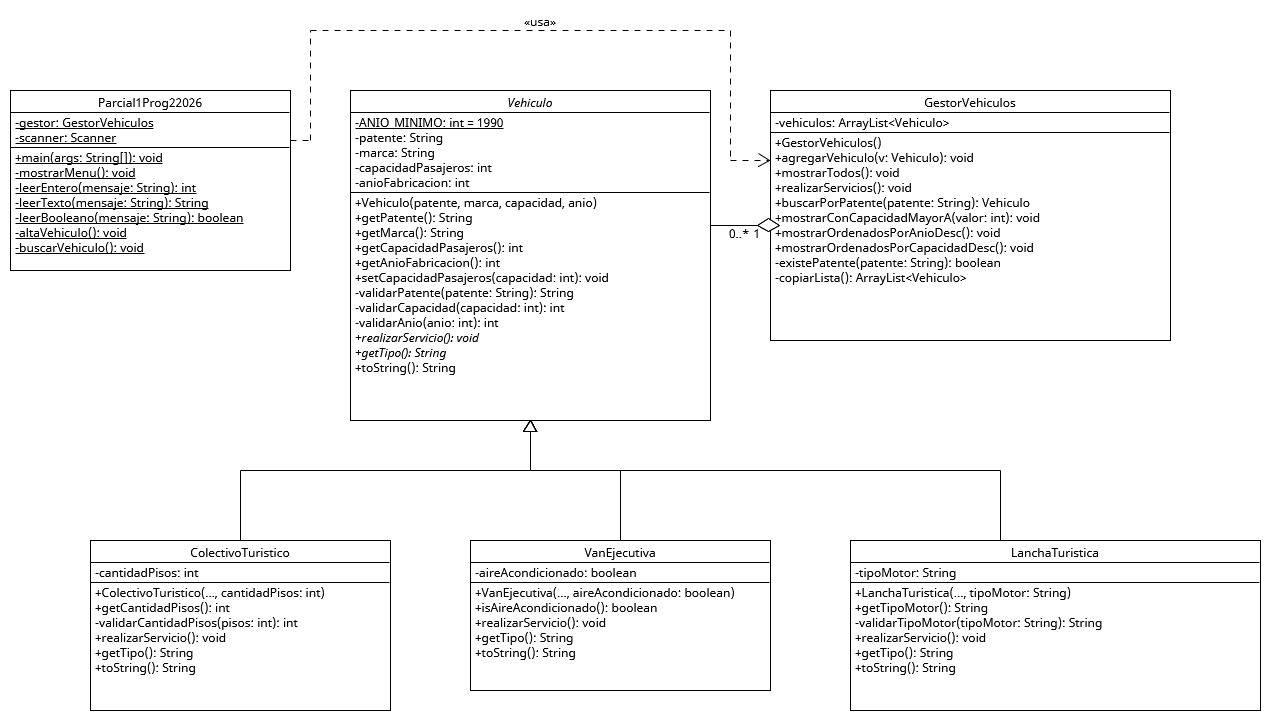
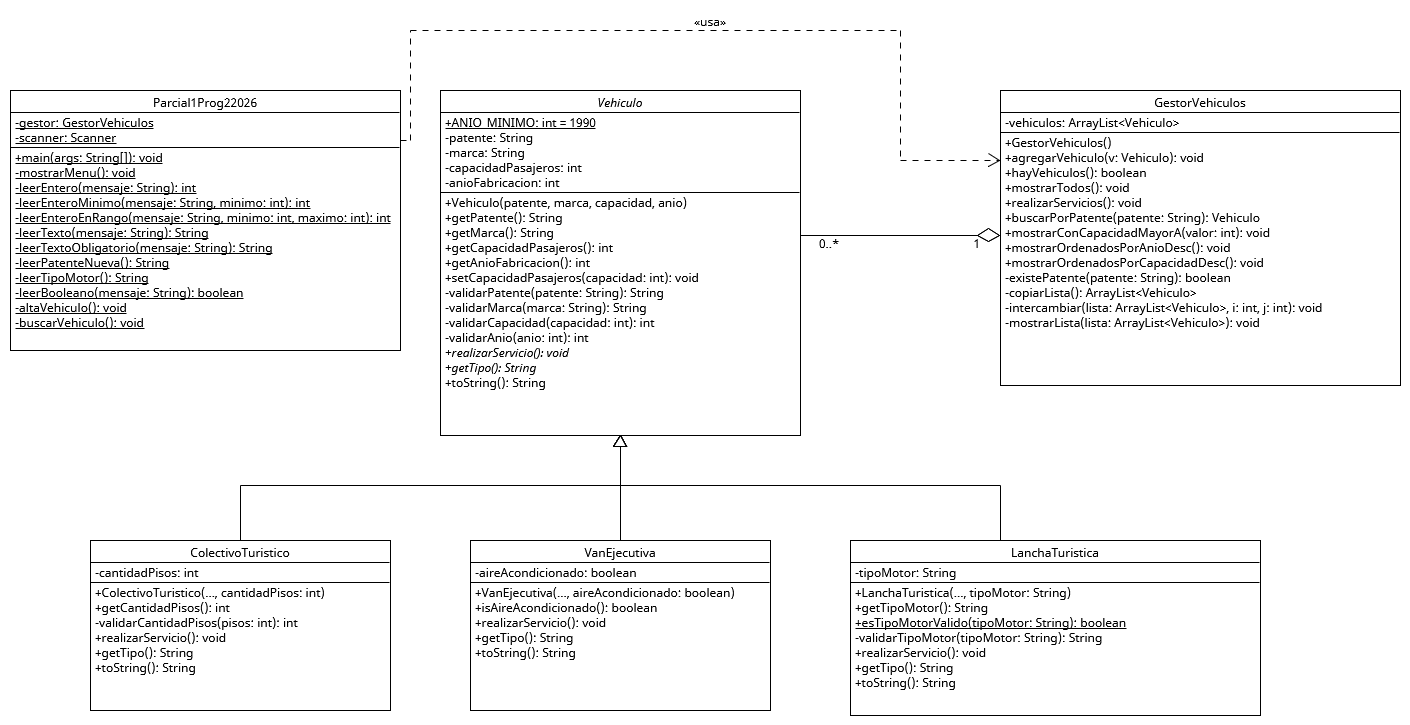
validaciones en el menu

diff --git a/src/parcial1prog2/pkg2026/Parcial1Prog22026.java b/src/parcial1prog2/pkg2026/Parcial1Prog22026.java
@@ -1,5 +1,6 @@
 package parcial1prog2.pkg2026;
 
+import java.util.Calendar;
 import java.util.Scanner;
 
 public class Parcial1Prog22026 {
@@ -12,6 +13,10 @@ public class Parcial1Prog22026 {
         while (opcion != 8) {
             mostrarMenu();
             opcion = leerEntero("Opcion: ");
+            if (opcion >= 2 && opcion <= 7 && !gestor.hayVehiculos()) {
+                System.out.println("No hay vehiculos cargados. Agregue un vehiculo primero (opcion 1).");
+                continue;
+            }
             switch (opcion) {
                 case 1:
                     altaVehiculo();
@@ -26,7 +31,7 @@ public class Parcial1Prog22026 {
                     buscarVehiculo();
                     break;
                 case 5:
-                    gestor.mostrarConCapacidadMayorA(leerEntero("Mostrar vehiculos con capacidad mayor a: "));
+                    gestor.mostrarConCapacidadMayorA(leerEnteroMinimo("Mostrar vehiculos con capacidad mayor a: ", 1));
                     break;
                 case 6:
                     gestor.mostrarOrdenadosPorAnioDesc();
@@ -69,9 +74,59 @@ public class Parcial1Prog22026 {
         }
     }
 
+    private static int leerEnteroMinimo(String mensaje, int minimo) {
+        while (true) {
+            int valor = leerEntero(mensaje);
+            if (valor >= minimo) {
+                return valor;
+            }
+            System.out.println("Entrada invalida: el valor no puede ser menor a " + minimo + ".");
+        }
+    }
+
+    private static int leerEnteroEnRango(String mensaje, int minimo, int maximo) {
+        while (true) {
+            int valor = leerEnteroMinimo(mensaje, minimo);
+            if (valor <= maximo) {
+                return valor;
+            }
+            System.out.println("Entrada invalida: el valor no puede ser mayor a " + maximo + ".");
+        }
+    }
+
     private static String leerTexto(String mensaje) {
         System.out.print(mensaje);
         return scanner.nextLine().trim();
+    }
+
+    private static String leerTextoObligatorio(String mensaje) {
+        while (true) {
+            String entrada = leerTexto(mensaje);
+            if (!entrada.isEmpty()) {
+                return entrada;
+            }
+            System.out.println("Entrada invalida: este dato no puede estar vacio.");
+        }
+    }
+
+    private static String leerPatenteNueva() {
+        while (true) {
+            String patente = leerTextoObligatorio("Patente: ");
+            if (gestor.buscarPorPatente(patente) == null) {
+                return patente;
+            }
+            System.out.println("Ya existe un vehiculo con la patente " + patente.toUpperCase() + ". Ingrese otra.");
+        }
+    }
+
+    private static String leerTipoMotor() {
+        while (true) {
+            String motor = leerTexto("Tipo de motor (NAFTA, DIESEL o ELECTRICO): ");
+            if (LanchaTuristica.esTipoMotorValido(motor)) {
+                return motor;
+            }
+            System.out.println("Tipo de motor invalido. Debe ser NAFTA, DIESEL o ELECTRICO.");
+        }
     }
 
     private static boolean leerBooleano(String mensaje) {
@@ -89,20 +144,17 @@ public class Parcial1Prog22026 {
 
     private static void altaVehiculo() {
         System.out.println("Tipo de vehiculo: 1. Colectivo  2. Van  3. Lancha");
-        int tipo = leerEntero("Tipo: ");
-        if (tipo < 1 || tipo > 3) {
-            System.out.println("Tipo invalido. Ingrese 1, 2 o 3.");
-            return;
-        }
-        String patente = leerTexto("Patente: ");
-        String marca = leerTexto("Marca: ");
-        int capacidad = leerEntero("Capacidad de pasajeros: ");
-        int anio = leerEntero("Anio de fabricacion: ");
+        int tipo = leerEnteroEnRango("Tipo: ", 1, 3);
+        String patente = leerPatenteNueva();
+        String marca = leerTextoObligatorio("Marca: ");
+        int capacidad = leerEnteroMinimo("Capacidad de pasajeros: ", 1);
+        int anioActual = Calendar.getInstance().get(Calendar.YEAR);
+        int anio = leerEnteroEnRango("Anio de fabricacion: ", Vehiculo.ANIO_MINIMO, anioActual);
         try {
             Vehiculo vehiculo;
             switch (tipo) {
                 case 1:
-                    int pisos = leerEntero("Cantidad de pisos (1 o 2): ");
+                    int pisos = leerEnteroEnRango("Cantidad de pisos (1 o 2): ", 1, 2);
                     vehiculo = new ColectivoTuristico(patente, marca, capacidad, anio, pisos);
                     break;
                 case 2:
@@ -110,7 +162,7 @@ public class Parcial1Prog22026 {
                     vehiculo = new VanEjecutiva(patente, marca, capacidad, anio, aire);
                     break;
                 default:
-                    String motor = leerTexto("Tipo de motor (NAFTA, DIESEL o ELECTRICO): ");
+                    String motor = leerTipoMotor();
                     vehiculo = new LanchaTuristica(patente, marca, capacidad, anio, motor);
                     break;
             }

diff --git a/src/parcial1prog2/pkg2026/Vehiculo.java b/src/parcial1prog2/pkg2026/Vehiculo.java
@@ -4,7 +4,7 @@ import java.util.Calendar;
 
 public abstract class Vehiculo {
 
-    private static final int ANIO_MINIMO = 1990;
+    public static final int ANIO_MINIMO = 1990;
 
     private String patente;
     private String marca;
@@ -13,7 +13,7 @@ public abstract class Vehiculo {
 
     public Vehiculo(String patente, String marca, int capacidadPasajeros, int anioFabricacion) throws VehiculoException {
         this.patente = validarPatente(patente);
-        this.marca = marca == null ? "" : marca.trim();
+        this.marca = validarMarca(marca);
         this.capacidadPasajeros = validarCapacidad(capacidadPasajeros);
         this.anioFabricacion = validarAnio(anioFabricacion);
     }
@@ -43,6 +43,13 @@ public abstract class Vehiculo {
             throw new VehiculoException("La patente no puede estar vacia.");
         }
         return patente.trim().toUpperCase();
+    }
+
+    private String validarMarca(String marca) throws VehiculoException {
+        if (marca == null || marca.trim().isEmpty()) {
+            throw new VehiculoException("La marca no puede estar vacia.");
+        }
+        return marca.trim();
     }
 
     private int validarCapacidad(int capacidad) throws VehiculoException {

diff --git a/src/parcial1prog2/pkg2026/LanchaTuristica.java b/src/parcial1prog2/pkg2026/LanchaTuristica.java
@@ -13,15 +13,22 @@ public class LanchaTuristica extends Vehiculo {
         return tipoMotor;
     }
 
+    public static boolean esTipoMotorValido(String tipoMotor) {
+        if (tipoMotor == null) {
+            return false;
+        }
+        String normalizado = tipoMotor.trim().toUpperCase();
+        return normalizado.equals("NAFTA") || normalizado.equals("DIESEL") || normalizado.equals("ELECTRICO");
+    }
+
     private String validarTipoMotor(String tipoMotor) throws VehiculoException {
         if (tipoMotor == null || tipoMotor.trim().isEmpty()) {
             throw new VehiculoException("El tipo de motor es obligatorio.");
         }
-        String normalizado = tipoMotor.trim().toUpperCase();
-        if (!normalizado.equals("NAFTA") && !normalizado.equals("DIESEL") && !normalizado.equals("ELECTRICO")) {
+        if (!esTipoMotorValido(tipoMotor)) {
             throw new VehiculoException("Tipo de motor invalido: " + tipoMotor + ". Debe ser NAFTA, DIESEL o ELECTRICO.");
         }
-        return normalizado;
+        return tipoMotor.trim().toUpperCase();
     }
 
     @Override

diff --git a/src/parcial1prog2/pkg2026/GestorVehiculos.java b/src/parcial1prog2/pkg2026/GestorVehiculos.java
@@ -17,6 +17,10 @@ public class GestorVehiculos {
         vehiculos.add(v);
     }
 
+    public boolean hayVehiculos() {
+        return !vehiculos.isEmpty();
+    }
+
     public void mostrarTodos() {
         mostrarLista(vehiculos);
     }
